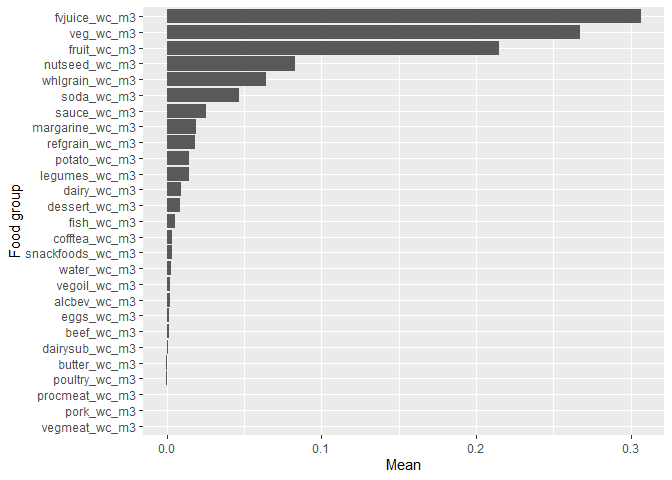
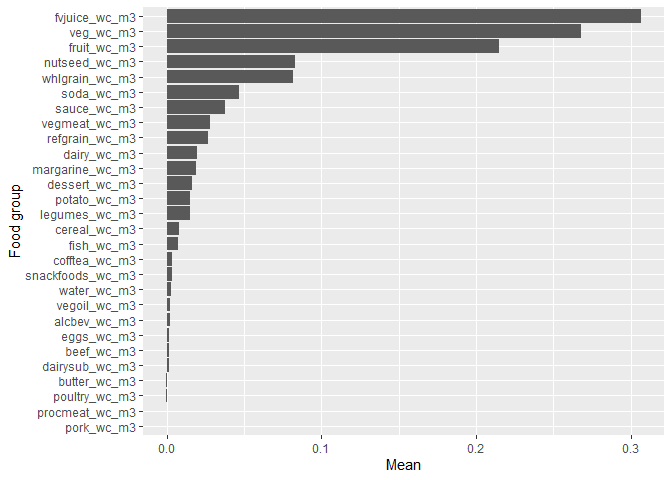
Analysis revised for new data

Changed region(s): [[0.0312, 0.0625, 0.2188, 0.9062], [0.25, 0.0625, 0.75, 0.5312]]

diff --git a/summary.md b/summary.md
@@ -6,12 +6,13 @@ AHS-2 Environmental Nutrition
 -   File path:
     `M:\Groups\Nutrition\Environmental Nutrition\AHS-2 Environment and Health`
 
--   File Name: `baseline-environmental-data-per-subject-20210824.csv`
+-   File Name: `baseline-environmental-data-per-subject-20210912.csv`
 
 -   Includes *n* = 88008 subjects and
 
--   187 variables:
+-   190 variables including:
 
+    -   `analysisid`
     -   Demographics:
         -   Age at baseline: `agein`
         -   BMI: `bmi`
@@ -32,17 +33,17 @@ AHS-2 Environmental Nutrition
 
 <!-- -->
 
-    ##  [1] "fruit"      "fvjuice"    "veg"        "potato"     "legumes"   
-    ##  [6] "refgrain"   "whlgrain"   "vegmeat"    "nutseed"    "sauce"     
-    ## [11] "vegoil"     "eggs"       "dairy"      "dairysub"   "margarine" 
-    ## [16] "butter"     "beef"       "procmeat"   "poultry"    "pork"      
-    ## [21] "fish"       "water"      "soda"       "cofftea"    "alcbev"    
-    ## [26] "dessert"    "snackfoods"
+    ##  [1] "cereal"     "snackfoods" "dessert"    "alcbev"     "cofftea"   
+    ##  [6] "soda"       "water"      "fish"       "pork"       "poultry"   
+    ## [11] "procmeat"   "beef"       "butter"     "margarine"  "dairysub"  
+    ## [16] "dairy"      "eggs"       "vegoil"     "sauce"      "nutseed"   
+    ## [21] "vegmeat"    "whlgrain"   "refgrain"   "legumes"    "potato"    
+    ## [26] "veg"        "fvjuice"    "fruit"
 
 ### Issues
 
--   Environmental variables of cereal (`cereal_gw_kg`, `cereal_lu_m2`,
-    `cereal_wc_m3`) have all zero values. AM has been notified.
+-   ~~Environmental variables of cereal (`cereal_gw_kg`, `cereal_lu_m2`,
+    `cereal_wc_m3`) have all zero values. AM has been notified.~~
 
 ### Changes
 
@@ -93,9 +94,9 @@ AHS-2 Environmental Nutrition
 <!-- -->
 
     ##         min      Q1  median      Q3     max    mean      sd skew
-    ## kcal 140.75 1195.34 1591.82 2089.16 4440.27 1697.58  690.42 0.80
-    ## gram  88.99 2147.52 2754.31 3434.03 9762.23 2838.34 1029.28 0.62
-    ## srv    1.48   30.38   39.05   49.21  127.34   40.65   14.58 0.65
+    ## kcal 140.75 1234.74 1640.49 2145.30 4474.44 1746.27  703.91 0.80
+    ## gram 200.09 2160.77 2768.07 3448.46 9782.78 2852.44 1032.57 0.63
+    ## srv    1.48   30.87   39.56   49.80  129.69   41.17   14.68 0.66
 
 ## Total environmental impact
 
@@ -105,9 +106,9 @@ AHS-2 Environmental Nutrition
 <!-- -->
 
     ##        min   Q1 median   Q3   max mean   sd skew
-    ## gw_kg 0.01 0.97   1.38 2.00 10.11 1.61 0.93 1.79
-    ## lu_m2 0.00 1.04   1.43 1.96  7.81 1.58 0.76 1.24
-    ## wc_m3 0.01 0.67   0.99 1.39  7.04 1.12 0.66 1.87
+    ## gw_kg 0.06 1.21   1.69 2.38 11.28 1.93 1.02 1.61
+    ## lu_m2 0.12 1.21   1.65 2.23  8.08 1.81 0.83 1.16
+    ## wc_m3 0.02 0.75   1.08 1.50  7.37 1.21 0.68 1.80
 
 ![](summary_files/figure-gfm/unnamed-chunk-4-1.png)<!-- -->
 
@@ -118,104 +119,107 @@ AHS-2 Environmental Nutrition
 <!-- -->
 
     ##                  min Q0.25 median Q0.75   max  mean    sd   skew
-    ## fruit_gw_kg        0 0.046  0.084 0.139 1.001 0.110 0.103  3.012
-    ## fvjuice_gw_kg      0 0.020  0.058 0.168 1.717 0.128 0.180  3.343
-    ## veg_gw_kg          0 0.060  0.100 0.154 0.663 0.118 0.082  1.792
-    ## potato_gw_kg       0 0.005  0.010 0.017 0.108 0.014 0.013  2.478
-    ## legumes_gw_kg      0 0.008  0.017 0.030 0.231 0.024 0.025  2.773
-    ## refgrain_gw_kg     0 0.026  0.052 0.083 0.480 0.063 0.058  2.336
-    ## whlgrain_gw_kg     0 0.041  0.078 0.138 0.902 0.113 0.113  2.089
-    ## vegmeat_gw_kg      0 0.000  0.000 0.000 0.111 0.003 0.008  6.601
-    ## nutseed_gw_kg      0 0.012  0.026 0.057 0.542 0.043 0.051  3.477
-    ## sauce_gw_kg        0 0.010  0.022 0.042 0.203 0.030 0.027  1.770
-    ## vegoil_gw_kg       0 0.007  0.017 0.038 0.335 0.029 0.036  3.116
-    ## eggs_gw_kg         0 0.000  0.009 0.037 0.322 0.020 0.032  4.678
-    ## dairy_gw_kg        0 0.029  0.165 0.451 4.714 0.336 0.486  3.303
-    ## dairysub_gw_kg     0 0.000  0.000 0.004 0.158 0.004 0.012  6.110
-    ## margarine_gw_kg    0 0.001  0.011 0.033 0.313 0.024 0.035  3.195
-    ## butter_gw_kg       0 0.000  0.000 0.017 0.702 0.028 0.071  4.906
-    ## beef_gw_kg         0 0.000  0.000 0.133 2.773 0.133 0.308  3.787
-    ## procmeat_gw_kg     0 0.000  0.000 0.000 0.442 0.009 0.036  6.585
-    ## poultry_gw_kg      0 0.000  0.000 0.076 1.323 0.066 0.123  3.380
-    ## pork_gw_kg         0 0.000  0.000 0.000 0.093 0.001 0.005 13.088
-    ## fish_gw_kg         0 0.000  0.000 0.068 1.016 0.047 0.101  4.330
-    ## water_gw_kg        0 0.072  0.129 0.187 0.280 0.133 0.075  0.060
-    ## soda_gw_kg         0 0.000  0.001 0.011 0.384 0.014 0.034  5.030
-    ## cofftea_gw_kg      0 0.000  0.001 0.027 1.873 0.075 0.192  4.115
-    ## alcbev_gw_kg       0 0.000  0.000 0.000 4.000 0.020 0.189 15.322
-    ## dessert_gw_kg      0 0.003  0.010 0.021 0.347 0.019 0.031  4.481
+    ## cereal_gw_kg       0 0.000  0.008 0.022 0.528 0.017 0.027  3.941
     ## snackfoods_gw_kg   0 0.000  0.001 0.011 0.246 0.010 0.023  4.923
+    ## dessert_gw_kg      0 0.005  0.026 0.049 0.811 0.045 0.070  4.449
+    ## alcbev_gw_kg       0 0.000  0.000 0.000 4.000 0.020 0.189 15.322
+    ## cofftea_gw_kg      0 0.000  0.001 0.027 1.873 0.075 0.192  4.115
+    ## soda_gw_kg         0 0.000  0.001 0.011 0.384 0.014 0.034  5.030
+    ## water_gw_kg        0 0.072  0.129 0.187 0.280 0.133 0.075  0.060
+    ## fish_gw_kg         0 0.000  0.014 0.076 1.070 0.058 0.113  4.002
+    ## pork_gw_kg         0 0.000  0.000 0.000 0.093 0.001 0.005 13.088
+    ## poultry_gw_kg      0 0.000  0.000 0.076 1.323 0.066 0.123  3.380
+    ## procmeat_gw_kg     0 0.000  0.000 0.000 0.442 0.009 0.036  6.585
+    ## beef_gw_kg         0 0.000  0.000 0.133 2.773 0.133 0.308  3.787
+    ## butter_gw_kg       0 0.000  0.000 0.017 0.702 0.028 0.071  4.906
+    ## margarine_gw_kg    0 0.001  0.011 0.033 0.313 0.024 0.035  3.195
+    ## dairysub_gw_kg     0 0.000  0.000 0.004 0.417 0.007 0.027  9.158
+    ## dairy_gw_kg        0 0.070  0.262 0.592 5.089 0.434 0.546  2.928
+    ## eggs_gw_kg         0 0.000  0.009 0.037 0.322 0.020 0.032  4.678
+    ## vegoil_gw_kg       0 0.007  0.018 0.039 0.335 0.030 0.036  3.093
+    ## sauce_gw_kg        0 0.015  0.032 0.060 0.794 0.047 0.060  5.570
+    ## nutseed_gw_kg      0 0.012  0.026 0.057 0.542 0.043 0.051  3.477
+    ## vegmeat_gw_kg      0 0.008  0.047 0.097 0.998 0.072 0.095  3.521
+    ## whlgrain_gw_kg     0 0.053  0.102 0.173 1.207 0.146 0.149  2.140
+    ## refgrain_gw_kg     0 0.032  0.065 0.112 0.857 0.089 0.093  2.905
+    ## legumes_gw_kg      0 0.010  0.022 0.047 0.345 0.035 0.040  2.869
+    ## potato_gw_kg       0 0.005  0.011 0.018 0.116 0.015 0.014  2.510
+    ## veg_gw_kg          0 0.060  0.100 0.155 0.664 0.118 0.083  1.786
+    ## fvjuice_gw_kg      0 0.020  0.058 0.168 1.717 0.128 0.180  3.343
+    ## fruit_gw_kg        0 0.046  0.084 0.139 2.229 0.110 0.106  3.801
 
 -   Land use
 
 <!-- -->
 
     ##                  min Q0.25 median Q0.75   max  mean    sd   skew
-    ## fruit_lu_m2        0 0.042  0.076 0.127 0.842 0.099 0.091  2.768
-    ## fvjuice_lu_m2      0 0.014  0.050 0.146 1.457 0.104 0.143  3.415
-    ## veg_lu_m2          0 0.106  0.174 0.281 1.257 0.215 0.157  1.858
-    ## potato_lu_m2       0 0.006  0.011 0.019 0.114 0.015 0.014  2.358
-    ## legumes_lu_m2      0 0.057  0.114 0.211 1.584 0.164 0.171  2.747
-    ## refgrain_lu_m2     0 0.050  0.089 0.153 0.754 0.116 0.099  1.944
-    ## whlgrain_lu_m2     0 0.046  0.093 0.195 0.847 0.131 0.120  1.749
-    ## vegmeat_lu_m2      0 0.000  0.000 0.000 0.118 0.003 0.009  6.601
-    ## nutseed_lu_m2      0 0.022  0.050 0.112 1.152 0.086 0.109  3.724
-    ## sauce_lu_m2        0 0.009  0.019 0.038 0.187 0.027 0.025  1.781
-    ## vegoil_lu_m2       0 0.015  0.039 0.091 0.833 0.069 0.089  3.183
-    ## eggs_lu_m2         0 0.000  0.006 0.027 0.239 0.015 0.024  4.678
-    ## dairy_lu_m2        0 0.020  0.114 0.306 2.597 0.220 0.298  2.810
-    ## dairysub_lu_m2     0 0.000  0.000 0.001 0.085 0.002 0.006  6.754
-    ## margarine_lu_m2    0 0.000  0.003 0.008 0.078 0.006 0.009  3.195
-    ## butter_lu_m2       0 0.000  0.000 0.012 0.483 0.019 0.049  4.906
-    ## beef_lu_m2         0 0.000  0.000 0.119 2.484 0.119 0.275  3.789
-    ## procmeat_lu_m2     0 0.000  0.000 0.000 0.393 0.009 0.033  6.478
-    ## poultry_lu_m2      0 0.000  0.000 0.058 1.010 0.050 0.094  3.381
-    ## pork_lu_m2         0 0.000  0.000 0.000 0.131 0.001 0.007 13.088
-    ## fish_lu_m2         0 0.000  0.000 0.006 0.067 0.004 0.007  3.886
-    ## water_lu_m2        0 0.003  0.005 0.007 0.011 0.005 0.003  0.060
-    ## soda_lu_m2         0 0.000  0.001 0.012 0.398 0.014 0.035  5.030
-    ## cofftea_lu_m2      0 0.000  0.001 0.018 1.192 0.048 0.121  4.118
-    ## alcbev_lu_m2       0 0.000  0.000 0.000 0.800 0.004 0.038 15.322
-    ## dessert_lu_m2      0 0.004  0.012 0.026 0.441 0.024 0.039  4.623
+    ## cereal_lu_m2       0 0.000  0.014 0.042 1.063 0.033 0.053  4.007
     ## snackfoods_lu_m2   0 0.000  0.001 0.009 0.181 0.008 0.017  4.856
+    ## dessert_lu_m2      0 0.007  0.023 0.045 0.680 0.040 0.061  4.236
+    ## alcbev_lu_m2       0 0.000  0.000 0.000 0.800 0.004 0.038 15.322
+    ## cofftea_lu_m2      0 0.000  0.001 0.018 1.192 0.048 0.121  4.118
+    ## soda_lu_m2         0 0.000  0.001 0.012 0.398 0.014 0.035  5.030
+    ## water_lu_m2        0 0.003  0.005 0.007 0.011 0.005 0.003  0.060
+    ## fish_lu_m2         0 0.000  0.002 0.011 0.135 0.008 0.014  3.779
+    ## pork_lu_m2         0 0.000  0.000 0.000 0.131 0.001 0.007 13.088
+    ## poultry_lu_m2      0 0.000  0.000 0.058 1.010 0.050 0.094  3.381
+    ## procmeat_lu_m2     0 0.000  0.000 0.000 0.393 0.009 0.033  6.478
+    ## beef_lu_m2         0 0.000  0.000 0.119 2.484 0.119 0.275  3.789
+    ## butter_lu_m2       0 0.000  0.000 0.012 0.483 0.019 0.049  4.906
+    ## margarine_lu_m2    0 0.000  0.003 0.008 0.078 0.006 0.009  3.195
+    ## dairysub_lu_m2     0 0.000  0.000 0.001 0.232 0.004 0.015  9.514
+    ## dairy_lu_m2        0 0.043  0.170 0.387 2.871 0.276 0.334  2.564
+    ## eggs_lu_m2         0 0.000  0.006 0.027 0.239 0.015 0.024  4.678
+    ## vegoil_lu_m2       0 0.016  0.041 0.093 0.833 0.070 0.089  3.158
+    ## sauce_lu_m2        0 0.011  0.022 0.042 0.203 0.030 0.027  1.754
+    ## nutseed_lu_m2      0 0.022  0.050 0.112 1.152 0.086 0.109  3.724
+    ## vegmeat_lu_m2      0 0.005  0.022 0.047 0.491 0.035 0.047  3.559
+    ## whlgrain_lu_m2     0 0.058  0.117 0.228 1.112 0.164 0.152  1.826
+    ## refgrain_lu_m2     0 0.057  0.106 0.187 1.020 0.141 0.127  2.204
+    ## legumes_lu_m2      0 0.062  0.127 0.241 1.660 0.184 0.189  2.569
+    ## potato_lu_m2       0 0.007  0.012 0.020 0.124 0.016 0.015  2.424
+    ## veg_lu_m2          0 0.107  0.176 0.284 1.262 0.217 0.158  1.850
+    ## fvjuice_lu_m2      0 0.014  0.050 0.146 1.457 0.104 0.143  3.415
+    ## fruit_lu_m2        0 0.042  0.076 0.127 1.636 0.099 0.093  3.228
 
 -   Water consumption
 
 <!-- -->
 
     ##                  min Q0.25 median Q0.75   max  mean    sd   skew
-    ## fruit_wc_m3        0 0.079  0.157 0.275 2.002 0.215 0.214  2.923
-    ## fvjuice_wc_m3      0 0.047  0.138 0.418 4.122 0.306 0.433  3.307
-    ## veg_wc_m3          0 0.129  0.218 0.352 1.684 0.267 0.199  1.976
-    ## potato_wc_m3       0 0.005  0.010 0.020 0.105 0.015 0.013  1.878
-    ## legumes_wc_m3      0 0.005  0.010 0.018 0.153 0.015 0.016  2.916
-    ## refgrain_wc_m3     0 0.003  0.015 0.024 0.167 0.018 0.020  2.914
-    ## whlgrain_wc_m3     0 0.021  0.045 0.089 0.476 0.064 0.065  2.013
-    ## vegmeat_wc_m3      0 0.000  0.000 0.000 0.001 0.000 0.000  6.601
-    ## nutseed_wc_m3      0 0.023  0.051 0.110 1.063 0.083 0.101  3.593
-    ## sauce_wc_m3        0 0.010  0.018 0.030 0.178 0.026 0.026  2.048
-    ## vegoil_wc_m3       0 0.000  0.001 0.003 0.031 0.002 0.003  3.313
-    ## eggs_wc_m3         0 0.000  0.001 0.003 0.027 0.002 0.003  4.678
-    ## dairy_wc_m3        0 0.000  0.003 0.008 0.310 0.009 0.022  6.826
-    ## dairysub_wc_m3     0 0.000  0.000 0.000 0.057 0.001 0.004  8.998
-    ## margarine_wc_m3    0 0.001  0.009 0.026 0.250 0.019 0.028  3.195
-    ## butter_wc_m3       0 0.000  0.000 0.000 0.012 0.000 0.001  4.906
-    ## beef_wc_m3         0 0.000  0.000 0.002 0.033 0.002 0.004  3.789
-    ## procmeat_wc_m3     0 0.000  0.000 0.000 0.008 0.000 0.001  7.625
-    ## poultry_wc_m3      0 0.000  0.000 0.000 0.008 0.000 0.001  3.286
-    ## pork_wc_m3         0 0.000  0.000 0.000 0.006 0.000 0.000 13.088
-    ## fish_wc_m3         0 0.000  0.000 0.008 0.134 0.005 0.013  4.633
-    ## water_wc_m3        0 0.002  0.003 0.004 0.006 0.003 0.002  0.060
-    ## soda_wc_m3         0 0.000  0.005 0.038 1.288 0.047 0.114  5.030
-    ## cofftea_wc_m3      0 0.000  0.000 0.004 0.061 0.004 0.007  3.475
-    ## alcbev_wc_m3       0 0.000  0.000 0.000 0.413 0.002 0.019 15.322
-    ## dessert_wc_m3      0 0.001  0.005 0.010 0.160 0.009 0.015  4.379
+    ## cereal_wc_m3       0 0.000  0.003 0.010 0.323 0.008 0.013  4.415
     ## snackfoods_wc_m3   0 0.000  0.002 0.004 0.066 0.004 0.006  4.141
+    ## dessert_wc_m3      0 0.002  0.009 0.018 0.289 0.016 0.025  4.409
+    ## alcbev_wc_m3       0 0.000  0.000 0.000 0.413 0.002 0.019 15.322
+    ## cofftea_wc_m3      0 0.000  0.000 0.004 0.061 0.004 0.007  3.475
+    ## soda_wc_m3         0 0.000  0.005 0.038 1.288 0.047 0.114  5.030
+    ## water_wc_m3        0 0.002  0.003 0.004 0.006 0.003 0.002  0.060
+    ## fish_wc_m3         0 0.000  0.001 0.011 0.140 0.007 0.015  4.093
+    ## pork_wc_m3         0 0.000  0.000 0.000 0.006 0.000 0.000 13.088
+    ## poultry_wc_m3      0 0.000  0.000 0.000 0.008 0.000 0.001  3.286
+    ## procmeat_wc_m3     0 0.000  0.000 0.000 0.008 0.000 0.001  7.625
+    ## beef_wc_m3         0 0.000  0.000 0.002 0.033 0.002 0.004  3.789
+    ## butter_wc_m3       0 0.000  0.000 0.000 0.012 0.000 0.001  4.906
+    ## margarine_wc_m3    0 0.001  0.009 0.026 0.250 0.019 0.028  3.195
+    ## dairysub_wc_m3     0 0.000  0.000 0.000 0.072 0.001 0.005  8.181
+    ## dairy_wc_m3        0 0.003  0.009 0.021 0.405 0.020 0.034  5.017
+    ## eggs_wc_m3         0 0.000  0.001 0.003 0.027 0.002 0.003  4.678
+    ## vegoil_wc_m3       0 0.000  0.001 0.003 0.031 0.002 0.003  3.312
+    ## sauce_wc_m3        0 0.012  0.023 0.044 0.603 0.038 0.049  4.865
+    ## nutseed_wc_m3      0 0.023  0.051 0.110 1.063 0.083 0.101  3.593
+    ## vegmeat_wc_m3      0 0.001  0.017 0.038 0.431 0.028 0.039  3.840
+    ## whlgrain_wc_m3     0 0.028  0.057 0.106 0.632 0.082 0.082  2.022
+    ## refgrain_wc_m3     0 0.005  0.018 0.032 0.310 0.027 0.035  3.576
+    ## legumes_wc_m3      0 0.005  0.010 0.019 0.154 0.015 0.016  2.894
+    ## potato_wc_m3       0 0.006  0.011 0.021 0.108 0.015 0.014  1.918
+    ## veg_wc_m3          0 0.130  0.219 0.353 1.685 0.268 0.200  1.971
+    ## fvjuice_wc_m3      0 0.047  0.138 0.418 4.122 0.306 0.433  3.307
+    ## fruit_wc_m3        0 0.079  0.157 0.275 4.605 0.215 0.220  3.582
 
 ## Mean plots of environmental impact by food group
 
 -   Mean GWP by food group: The consumption of `dairy` contributes to
-    the largest GWP, followed by `beef` and `water`, among 28 food
+    the largest GWP, followed by `whlgrain` and `beef`, among 28 food
     groups.
 
 -   Mean land use by food group: `dairy` followed by `veg`, `legumes`
@@ -234,8 +238,8 @@ AHS-2 Environmental Nutrition
     pseudo-log scale.
 -   GWP and land use increase in the order of vegan &lt; lacto-ovo &lt;
     pesco &lt; semi &lt; non-veg.
-    -   The average total GWP of non-vegetarians is twice as high as
-        that of vegans.
+    -   The average total GWP of non-vegetarians is almost twice as high
+        as that of vegans.
 -   For water consumption, vegans have the highest usage: vegan &gt;
     pesco &gt; lacto-ovo &gt; semi &gt; non-veg.
 
@@ -245,21 +249,21 @@ AHS-2 Environmental Nutrition
     ## # Groups:   variable [3]
     ##    variable  vegstat   Median  Mean    SD
     ##    <fct>     <fct>      <dbl> <dbl> <dbl>
-    ##  1 gw_kg_std Vegan       1.06  1.07 0.224
-    ##  2 gw_kg_std Lacto-ovo   1.27  1.38 0.500
-    ##  3 gw_kg_std Pesco       1.35  1.46 0.525
-    ##  4 gw_kg_std Semi        1.45  1.57 0.597
-    ##  5 gw_kg_std Non-veg     1.98  2.14 0.824
-    ##  6 lu_m2_std Vegan       1.42  1.43 0.309
-    ##  7 lu_m2_std Lacto-ovo   1.49  1.52 0.364
-    ##  8 lu_m2_std Pesco       1.51  1.54 0.385
-    ##  9 lu_m2_std Semi        1.55  1.58 0.411
-    ## 10 lu_m2_std Non-veg     1.85  1.92 0.561
-    ## 11 wc_m3_std Vegan       1.26  1.36 0.537
-    ## 12 wc_m3_std Lacto-ovo   1.16  1.25 0.502
-    ## 13 wc_m3_std Pesco       1.21  1.30 0.549
-    ## 14 wc_m3_std Semi        1.12  1.21 0.551
-    ## 15 wc_m3_std Non-veg     1.07  1.16 0.524
+    ##  1 gw_kg_std Vegan       1.28  1.29 0.251
+    ##  2 gw_kg_std Lacto-ovo   1.58  1.69 0.526
+    ##  3 gw_kg_std Pesco       1.66  1.76 0.544
+    ##  4 gw_kg_std Semi        1.76  1.87 0.611
+    ##  5 gw_kg_std Non-veg     2.29  2.44 0.824
+    ##  6 lu_m2_std Vegan       1.58  1.58 0.300
+    ##  7 lu_m2_std Lacto-ovo   1.70  1.73 0.360
+    ##  8 lu_m2_std Pesco       1.71  1.73 0.373
+    ##  9 lu_m2_std Semi        1.76  1.78 0.406
+    ## 10 lu_m2_std Non-veg     2.05  2.13 0.553
+    ## 11 wc_m3_std Vegan       1.34  1.44 0.527
+    ## 12 wc_m3_std Lacto-ovo   1.24  1.32 0.486
+    ## 13 wc_m3_std Pesco       1.28  1.36 0.529
+    ## 14 wc_m3_std Semi        1.19  1.28 0.530
+    ## 15 wc_m3_std Non-veg     1.14  1.22 0.506
 
 -   In all three variables, differences across dietary patterns were
     highly significant:
@@ -269,9 +273,9 @@ AHS-2 Environmental Nutrition
     ## # A tibble: 3 x 4
     ##   Variable  method                       statistic p.value   
     ##   <chr>     <chr>                            <dbl> <chr>     
-    ## 1 gw_kg_std Kruskal-Wallis rank sum test    30939. < 2.22e-16
-    ## 2 lu_m2_std Kruskal-Wallis rank sum test    14256. < 2.22e-16
-    ## 3 wc_m3_std Kruskal-Wallis rank sum test     1710. < 2.22e-16
+    ## 1 gw_kg_std Kruskal-Wallis rank sum test    30910. < 2.22e-16
+    ## 2 lu_m2_std Kruskal-Wallis rank sum test    15770. < 2.22e-16
+    ## 3 wc_m3_std Kruskal-Wallis rank sum test     2206. < 2.22e-16
 
 ## Mean plot of environmental impact of food groups by dietary pattern
 
